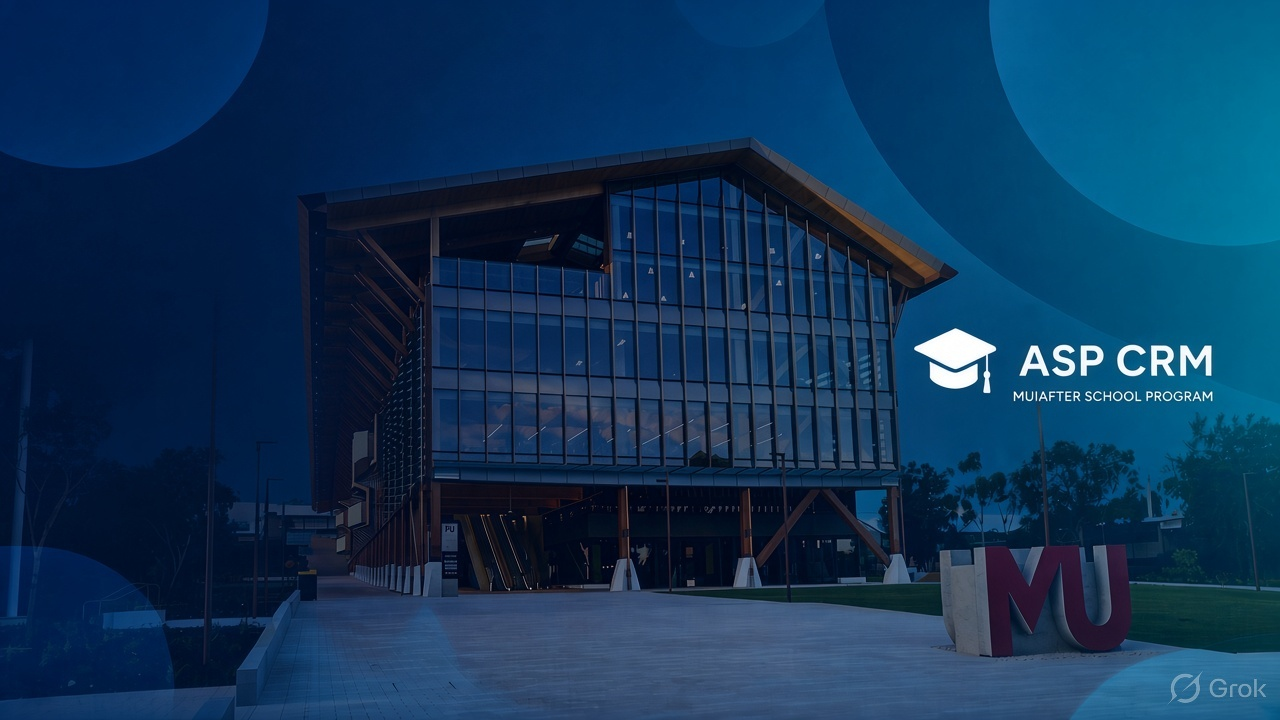
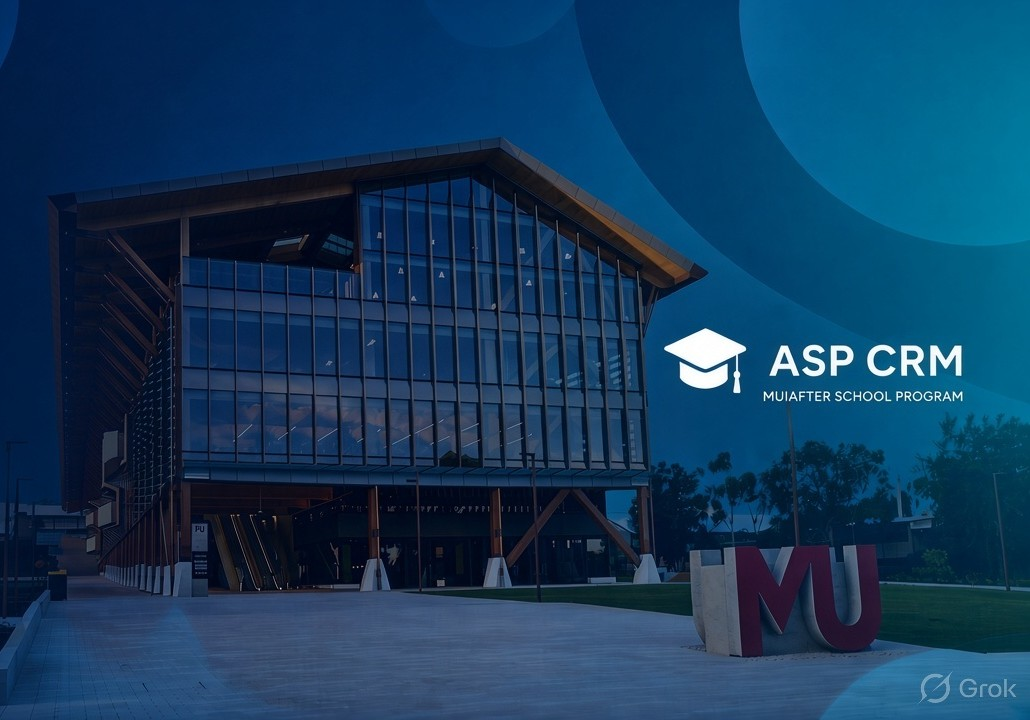
Update dashboard css

diff --git a/frontend/src/pages/Dashboard.css b/frontend/src/pages/Dashboard.css
@@ -2,7 +2,7 @@
   width: 100%;
   max-width: 1440px;
   margin: 0 auto;
-  padding: 0 0 24px;
+  padding: 8px 0 40px;
   color: var(--color-text);
   font-family: inherit;
 }
@@ -12,6 +12,7 @@
   align-items: flex-start;
   justify-content: space-between;
   gap: 24px;
+  margin-bottom: 8px;
 }
 
 .dashboard-page__eyebrow,
@@ -27,9 +28,10 @@
 .dashboard-page__heading h1 {
   margin: 0;
   color: var(--color-primary);
-  font-size: clamp(12px, 2vw, 42px);
+  font-size: clamp(26px, 2.8vw, 34px);
+  font-weight: 700;
   line-height: 1.12;
-  letter-spacing: -0.035em;
+  letter-spacing: -0.03em;
 }
 
 .dashboard-page__intro {
@@ -53,54 +55,79 @@
   white-space: nowrap;
 }
 
+/* ========== WELCOME BANNER ========== */
 .dashboard-welcome {
   display: flex;
   align-items: center;
   justify-content: space-between;
   gap: 24px;
   margin-top: 18px;
-  padding: clamp(28px, 4vw, 54px);
+  padding: clamp(32px, 4.5vw, 48px) clamp(28px, 4vw, 52px);
   overflow: hidden;
-  border-radius: 22px;
-  background:url(./../assets/images/newbanner.jpg)center / cover no-repeat;
+  border-radius: 24px;
+  background: url(./../assets/images/newbanner.jpg) center / cover no-repeat;
   width: 100%;
-  height: 250px;          /* adjust as needed */
-  /* optional extras */
-  position: relative;;
+  height: 270px;
+  position: relative;
   color: #ffffff;
-  
-  /* background: linear-gradient(
-    118deg,
-    var(--color-primary) 0%,
-    var(--color-accent) 100%
-  ); */
   box-shadow: 0 16px 38px rgba(16, 47, 73, 0.14);
 }
 
+/* Dark overlay for better text contrast */
+.dashboard-welcome::before {
+  content: "";
+  position: absolute;
+  inset: 0;
+  background: linear-gradient(
+    105deg,
+    rgba(6, 25, 55, 0.78) 0%,
+    rgba(8, 40, 75, 0.55) 40%,
+    rgba(10, 55, 90, 0.25) 100%
+  );
+  border-radius: inherit;
+  pointer-events: none;
+}
+
 .dashboard-welcome__copy {
-  position: relative; 
-   z-index: 1;
+  position: relative;
+  z-index: 1;
   max-width: 720px;
 }
 
+/* Small label with border bottom */
 .dashboard-welcome__eyebrow {
-  color: #d8e9f1;
+  margin: 0 0 14px;
+  color: #a5f3fc;
+  font-size: 12px;
+  font-weight: 800;
+  letter-spacing: 0.14em;
+  text-transform: uppercase;
+  text-shadow: 0 1px 4px rgba(0, 0, 0, 0.35);
+  display: inline-block;
+  padding-bottom: 5px;
+  border-bottom: 1.5px solid #a5f3fc;
 }
 
+/* Main title */
 .dashboard-welcome h2 {
-  margin: 0;
+  margin: 0 0 8px;
   color: #ffffff;
   font-size: clamp(25px, 3vw, 36px);
+  font-weight: 700;
   line-height: 1.2;
   letter-spacing: -0.03em;
+  text-shadow: 0 2px 10px rgba(0, 0, 0, 0.45);
 }
 
+/* Subtitle */
 .dashboard-welcome__copy > p:last-child {
   max-width: 620px;
-  margin: 12px 0 0;
-  color: #e1edf2;
-  font-size: 15px;
+  margin: 0;
+  color: #e0f2fe;
+  font-size: 15.5px;
   line-height: 1.6;
+  opacity: 0.95;
+  text-shadow: 0 1px 6px rgba(0, 0, 0, 0.4);
 }
 
 .dashboard-welcome__mark {
@@ -118,19 +145,21 @@
   letter-spacing: 0.08em;
 }
 
+/* ========== QUICK ACTIONS ========== */
 .dashboard-actions {
-  margin-top: 30px;
+  margin-top: 36px;
 }
 
 .dashboard-actions__heading h2 {
   margin: 0;
   color: var(--color-primary);
-  font-size: 23px;
+  font-size: 21px;
+  font-weight: 700;
   letter-spacing: -0.02em;
 }
 
 .dashboard-actions__heading p {
-  margin: 7px 0 0;
+  margin: 4px 0 0;
   color: var(--color-muted);
   font-size: 14px;
 }
@@ -138,35 +167,48 @@
 .dashboard-actions__grid {
   display: grid;
   grid-template-columns: repeat(auto-fit, minmax(min(100%, 290px), 1fr));
-  gap: 16px;
-  margin-top: 18px;
+  gap: 20px;
+  margin-top: 22px;
 }
 
 .dashboard-action {
   display: flex;
-  min-width: 0;
-  min-height: 112px;
   align-items: center;
   gap: 16px;
-  padding: 20px;
-  /* border: 1px solid var(--color-border); */
-  border-radius: 16px;
-  box-shadow: rgba(149, 157, 165, 0.2) 0px 8px 24px;
-  color: inherit;
-  background: var(--color-surface);
+  min-height: 112px;
+  padding: 20px 22px;
+  background: #ffffff;
+  border: 1px solid rgba(0, 0, 0, 0.05);
+  border-radius: 18px;
+  box-shadow: 0 4px 20px rgba(16, 47, 73, 0.06);
   text-decoration: none;
-  transition:
-    transform 150ms ease,
-    box-shadow 150ms ease,
-    border-color 150ms ease;
+  color: inherit;
+  transition: all 0.25s cubic-bezier(0.4, 0, 0.2, 1);
+  position: relative;
+  overflow: hidden;
 }
 
-.dashboard-action:hover,
-.dashboard-action:focus-visible {
-  transform: translateY(-2px);
-  border-color: #b9cddc;
-  box-shadow: 0 12px 26px rgba(26, 54, 82, 0.09);
-  outline: none;
+/* Soft left accent on hover */
+.dashboard-action::before {
+  content: "";
+  position: absolute;
+  left: 0;
+  top: 0;
+  bottom: 0;
+  width: 4px;
+  background: var(--color-primary);
+  opacity: 0;
+  transition: opacity 0.25s ease;
+}
+
+.dashboard-action:hover {
+  transform: translateY(-4px);
+  box-shadow: 0 14px 32px rgba(16, 47, 73, 0.13);
+  border-color: rgba(0, 90, 150, 0.18);
+}
+
+.dashboard-action:hover::before {
+  opacity: 1;
 }
 
 .dashboard-action:focus-visible {
@@ -174,13 +216,23 @@
   outline-offset: 3px;
 }
 
+.dashboard-action:active {
+  transform: translateY(-1px);
+}
+
+/* Icon */
 .dashboard-action__icon {
   display: grid;
+  place-items: center;
   width: 48px;
   height: 48px;
-  flex: 0 0 auto;
-  place-items: center;
   border-radius: 14px;
+  flex-shrink: 0;
+  transition: transform 0.25s ease;
+}
+
+.dashboard-action:hover .dashboard-action__icon {
+  transform: scale(1.08);
 }
 
 .dashboard-action__icon--student,
@@ -212,37 +264,41 @@
   min-width: 0;
   flex: 1;
   flex-direction: column;
-  gap: 6px;
+  gap: 4px;
 }
 
 .dashboard-action__title {
-  color: var(--color-primary);
-  font-size: 16px;
+  font-size: 15.5px;
   font-weight: 700;
+  color: var(--color-primary);
 }
 
 .dashboard-action__description {
-  color: var(--color-muted);
   font-size: 13px;
   line-height: 1.45;
+  color: #64748b;
   font-weight: 500;
 }
 
+/* Arrow */
 .dashboard-action__arrow {
-  flex: 0 0 auto;
-  color: var(--color-muted);
-  font-size: 22px;
-  transition: transform 150ms ease;
+  margin-left: auto;
+  font-size: 20px;
+  color: #94a3b8;
+  transition: all 0.25s ease;
 }
 
 .dashboard-action:hover .dashboard-action__arrow {
-  transform: translateX(3px);
+  color: var(--color-primary);
+  transform: translateX(5px);
 }
 
+/* ========== RESPONSIVE ========== */
 @media (max-width: 700px) {
   .dashboard-welcome {
-    min-height: 180px;
-    border-radius: 18px;
+    height: auto;
+    min-height: 200px;
+    border-radius: 20px;
   }
 
   .dashboard-welcome__mark {
@@ -278,7 +334,8 @@
 
 @media (prefers-reduced-motion: reduce) {
   .dashboard-action,
-  .dashboard-action__arrow {
+  .dashboard-action__arrow,
+  .dashboard-action__icon {
     transition: none;
   }
 }

diff --git a/frontend/src/pages/DashboardPage.jsx b/frontend/src/pages/DashboardPage.jsx
@@ -194,7 +194,7 @@ export default function Dashboard() {
           <p className="dashboard-welcome__eyebrow">Your ASP workspace</p>
           <h2 id="dashboard-welcome-title">
             {isAdministrator
-              ? "Manage your program in one place."
+              ? "Manage everything in one place."
               : "Get ready for your classes."}
           </h2>
           <p>
